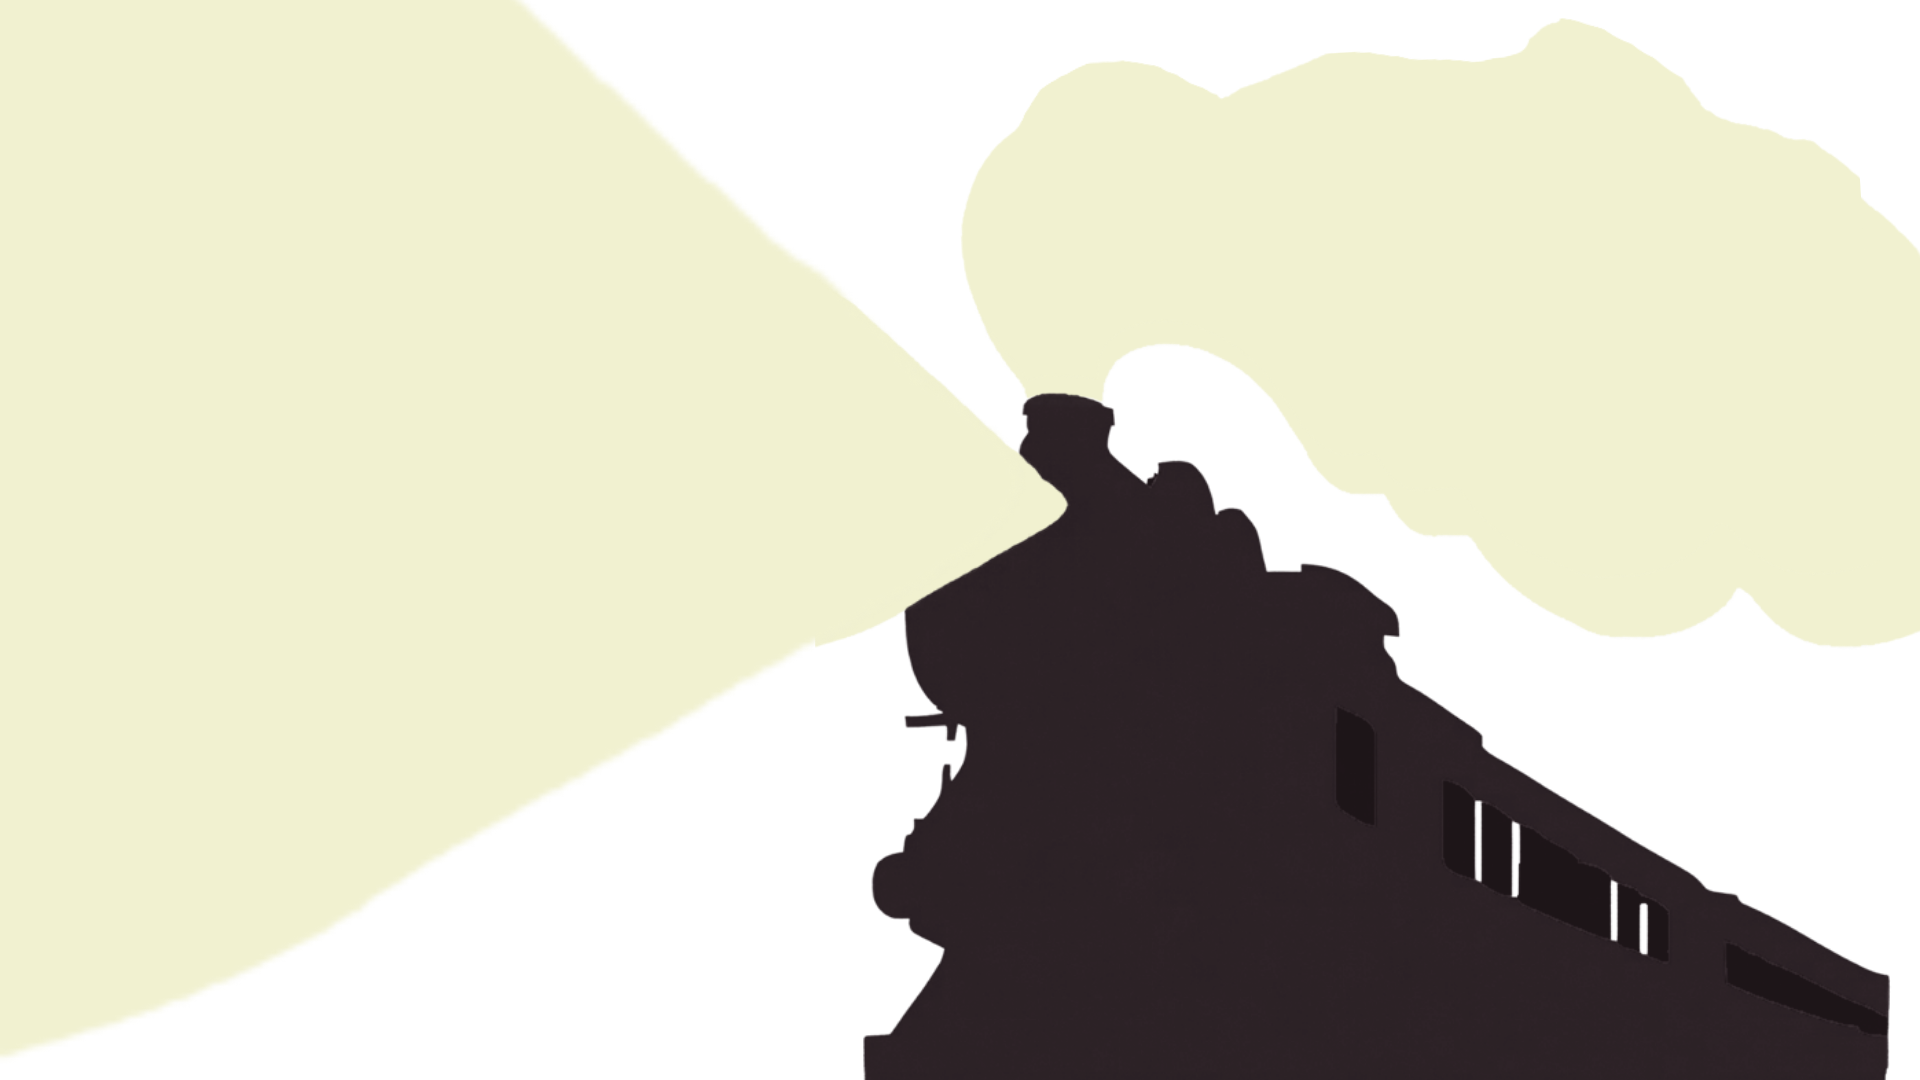
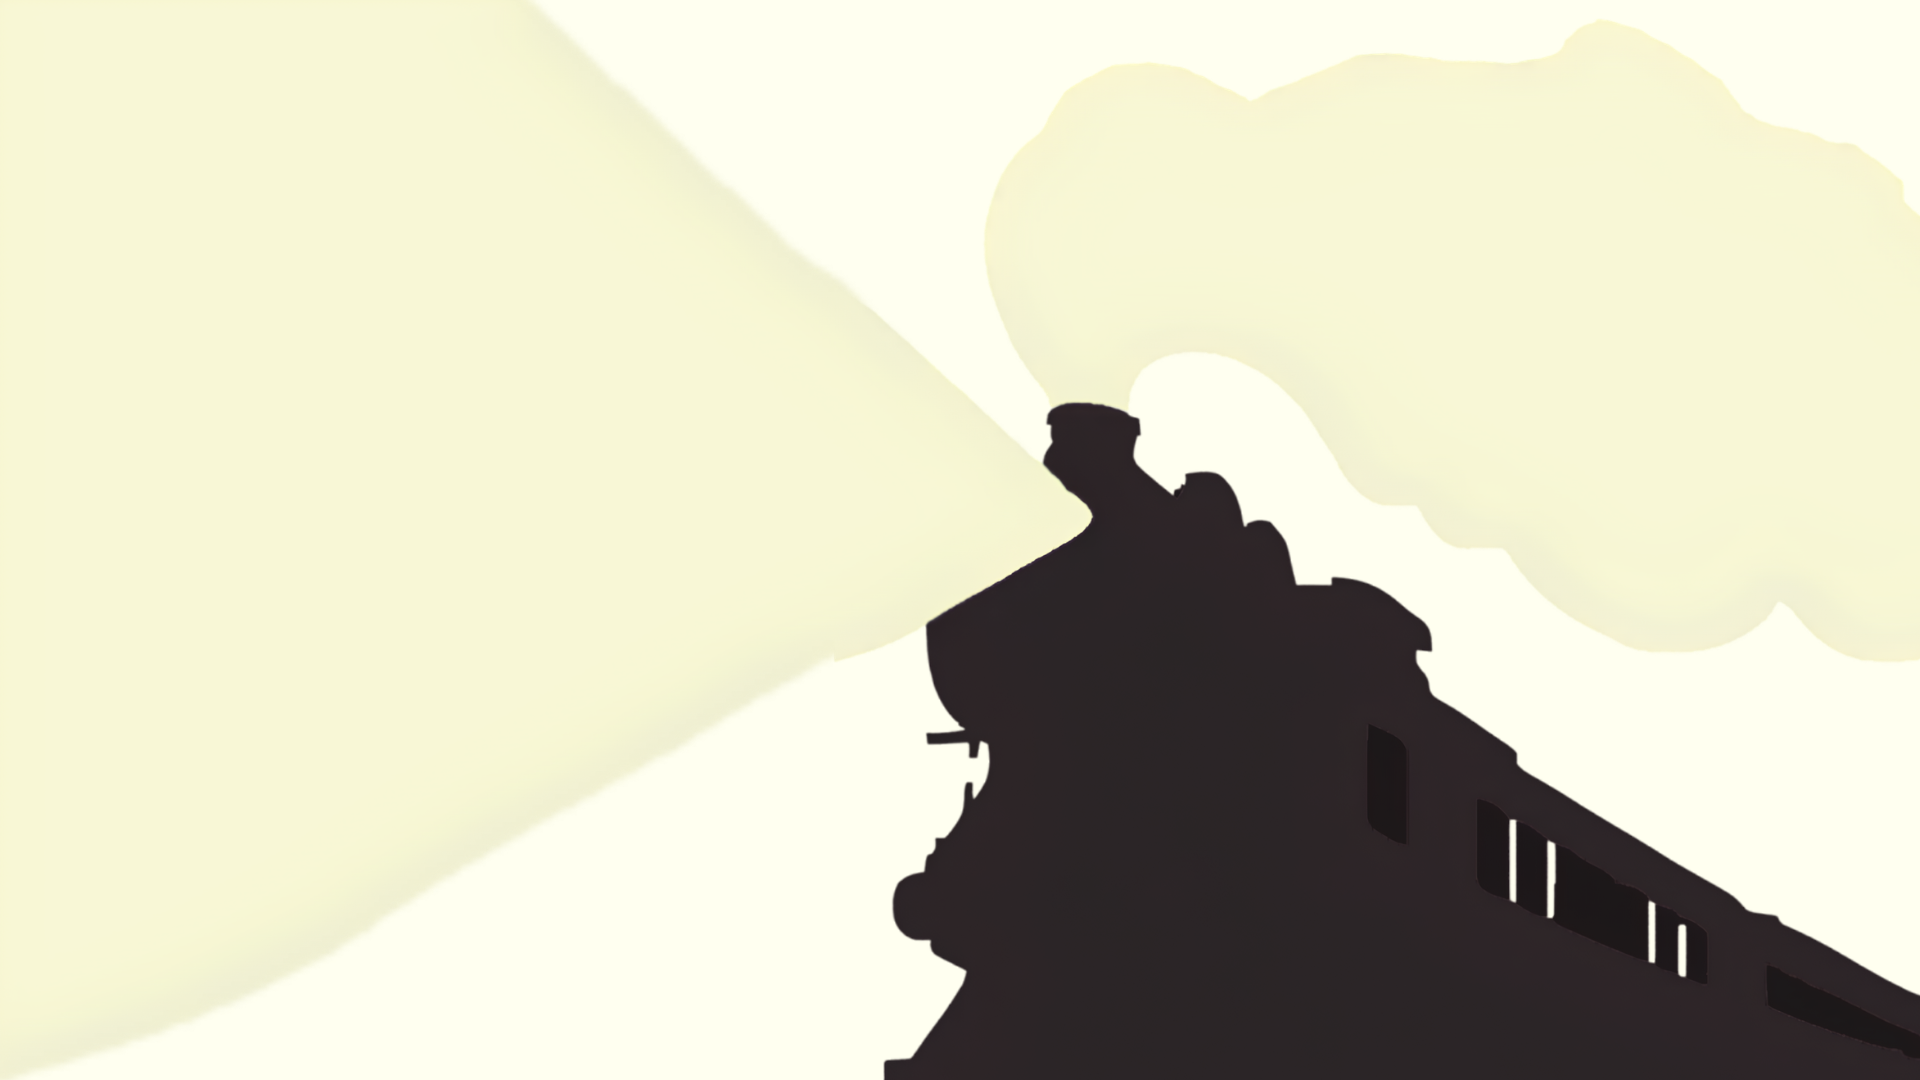
feat - update landingpage

diff --git a/index.php b/index.php
@@ -16,12 +16,14 @@
         <a class="navbar-brand" href="#inicio">
             <img src="assets/images/logo_escrita.png" height="35" alt="HERMES">
         </a>
-        <button class="navbar-toggler" data-bs-toggle="collapse" data-bs-target="#menu">
+        <button class="navbar-toggler" type="button" data-bs-toggle="collapse" data-bs-target="#menu">
             <span class="navbar-toggler-icon"></span>
         </button>
         <div class="collapse navbar-collapse" id="menu">
-            <div class="navbar-nav ms-auto align-items-lg-center gap-lg-3">
-                <a href="public/index.php" class="btn btn-danger rounded-0 px-4">Acessar sistema ↗</a>
+            <div class="navbar-nav ms-auto align-items-lg-center gap-lg-3 py-3 py-lg-0">
+                <a href="#funcionalidades" class="nav-link">Recursos</a>
+                <a href="#projeto" class="nav-link">O projeto</a>
+                <a href="public/index.php" class="btn btn-danger rounded-3 px-4 py-2">Acessar sistema <i class="fa-solid fa-arrow-up-right-from-square ms-1"></i></a>
             </div>
         </div>
     </div>
@@ -30,51 +32,56 @@
 <main>
 
     <section id="inicio" class="container-fluid p-0">
-        <div class="d-flex align-items-center" style="min-height: 650px; background: url('assets/images/background_landingpage.png') center center / cover no-repeat;">
+        <div class="d-flex align-items-center bg-light" style="min-height: 700px; background-image: url('assets/images/background_landingpage.png'); background-position: center; background-size: 100% auto; background-repeat: no-repeat;">
             <div class="container py-5">
                 <div class="col-lg-5">
-                    <img src="assets/images/logo_escrita.png" class="img-fluid w-75" alt="HERMES">
-                    <p class="fs-5 mt-3" style="color: #51413b;">Sistema de monitoramento e gerenciamento ferroviário.</p>
-                    <a href="public/index.php" class="btn btn-danger rounded-0 px-4 py-3 mt-3">Acessar sistema ↗</a>
+                    <span class="badge bg-danger rounded-pill px-3 py-2 mb-3">SA-FERRORAMA · SENAI SC</span>
+                    <img src="assets/images/logo_escrita.png" class="img-fluid w-75 d-block" alt="HERMES">
+                    <p class="fs-5 mt-4" style="color: #51413b;">Sistema de monitoramento e gerenciamento ferroviário.</p>
+                    <a href="public/index.php" class="btn btn-danger rounded-3 px-4 py-3 mt-3">
+                        Acessar sistema <i class="fa-solid fa-arrow-right ms-2"></i>
+                    </a>
                 </div>
             </div>
         </div>
     </section>
 
     <section id="funcionalidades" class="py-5 text-light" style="background-color: #292124;">
-        <div class="container py-4">
-            <h2 class="display-5 fw-bold mt-3 mb-5">Recursos do sistema</h2>
+        <div class="container py-5">
+            <span class="text-danger fw-bold small">O QUE OFERECEMOS</span>
+            <h2 class="display-5 fw-bold mt-2 mb-3">Recursos do sistema<span class="text-danger">.</span></h2>
+            <p class="text-white-50 mb-5">Ferramentas para gerenciamento e acompanhamento da operação ferroviária.</p>
 
             <div class="row g-4">
                 <div class="col-md-6 col-lg-3">
-                    <div class=" border-2 pt-4 h-100">
+                    <div class="bg-dark rounded-4 p-4 h-100 border border-secondary border-opacity-25">
                         <i class="fa-solid fa-tower-broadcast fs-2 text-danger"></i>
                         <h5 class="fw-bold mt-4">Sensores</h5>
-                        <p class="text-white-50">Cadastro e gerenciamento dos sensores.</p>
+                        <p class="text-white-50 mb-0">Cadastro e gerenciamento dos sensores conectados ao sistema.</p>
                     </div>
                 </div>
 
                 <div class="col-md-6 col-lg-3">
-                    <div class=" border-2 pt-4 h-100">
+                    <div class="bg-dark rounded-4 p-4 h-100 border border-secondary border-opacity-25">
                         <i class="fa-solid fa-train fs-2 text-danger"></i>
                         <h5 class="fw-bold mt-4">Trens</h5>
-                        <p class="text-white-50">Cadastro e gerenciamento dos trens.</p>
+                        <p class="text-white-50 mb-0">Cadastro e gerenciamento das locomotivas monitoradas.</p>
                     </div>
                 </div>
 
                 <div class="col-md-6 col-lg-3">
-                    <div class=" border-2 pt-4 h-100">
+                    <div class="bg-dark rounded-4 p-4 h-100 border border-secondary border-opacity-25">
                         <i class="fa-solid fa-route fs-2 text-danger"></i>
                         <h5 class="fw-bold mt-4">Rotas</h5>
-                        <p class="text-white-50">Cadastro e gerenciamento das rotas.</p>
+                        <p class="text-white-50 mb-0">Organização e gerenciamento das rotas ferroviárias.</p>
                     </div>
                 </div>
 
                 <div class="col-md-6 col-lg-3">
-                    <div class=" border-2 pt-4 h-100">
+                    <div class="bg-dark rounded-4 p-4 h-100 border border-secondary border-opacity-25">
                         <i class="fa-solid fa-chart-line fs-2 text-danger"></i>
                         <h5 class="fw-bold mt-4">Monitoramento</h5>
-                        <p class="text-white-50">Visualização dos dados dos sensores.</p>
+                        <p class="text-white-50 mb-0">Visualização e acompanhamento dos dados dos sensores.</p>
                     </div>
                 </div>
             </div>
@@ -82,14 +89,31 @@
     </section>
 
     <section id="projeto" class="py-5">
-        <div class="container py-4">
-            <div class="row align-items-center g-4">
-                <div class="col-lg-8">
-                    <h2 class="display-5 fw-bold mt-3" style="color: #292124;">SA-FERRORAMA</h2>
-                    <p class="text-secondary mt-3">Projeto acadêmico desenvolvido no SENAI SC, envolvendo monitoramento ferroviário e Internet das Coisas (IoT).</p>
+        <div class="container py-5">
+            <div class="row align-items-center g-5">
+                <div class="col-lg-7">
+                    <span class="text-danger fw-bold small">SOBRE O PROJETO</span>
+                    <h2 class="display-5 fw-bold mt-3" style="color: #292124;">SA-FERRORAMA<span class="text-danger">.</span></h2>
+                    <p class="text-secondary mt-4 fs-5">Projeto acadêmico desenvolvido no SENAI SC, envolvendo monitoramento ferroviário e Internet das Coisas (IoT).</p>
+
+                    <div class="d-flex align-items-center gap-3 mt-4">
+                        <div class="bg-danger bg-opacity-10 text-danger rounded-3 p-3">
+                            <i class="fa-solid fa-microchip fs-4"></i>
+                        </div>
+                        <div>
+                            <h6 class="fw-bold mb-1">Tecnologia e inovação</h6>
+                            <small class="text-secondary">Integração entre sistemas, sensores e monitoramento.</small>
+                        </div>
+                    </div>
                 </div>
-                <div class="col-lg-4 text-center">
-                    <img src="assets/images/logo_escrita.png" class="img-fluid w-75" alt="HERMES">
+
+                <div class="col-lg-5">
+                    <div class="bg-white rounded-4 border p-5 text-center shadow-sm">
+                        <img src="assets/images/logo_escrita.png" class="img-fluid w-75" alt="HERMES">
+                        <div class="border-top mt-4 pt-3">
+                            <small class="text-secondary fw-semibold">SENAI · SANTA CATARINA</small>
+                        </div>
+                    </div>
                 </div>
             </div>
         </div>
